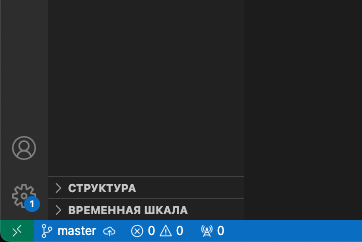
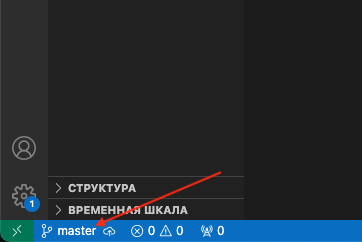
description with pictures

diff --git a/README.md b/README.md
@@ -233,8 +233,32 @@ $ git clone [тут наш адрес]
 
 ![2](./.pictures/2.png)
 
-3. 
+3. Откроем папку в VSC
 
+![2](./.pictures/4.png)
+![2](./.pictures/5.png)
+
+В углу можем видеть, что теперь Git отлеживает изменения в в ветви master
+
+![2](./.pictures/6.png)
+
+4. Убедимся, что в VSC мы вошли в аккаунт через GitHub
+
+![2](./.pictures/3.png)
+
+5. Создадим файл
+
+![2](./.pictures/7.png)
+
+6. Во вкладке Git увидим, что файл отклеживается. Запишем все изменения.
+   
+![2](./.pictures/8.png)
+![2](./.pictures/9.png)
+
+7. Теперь осталось отправить изменения и выбрать тип репозитория.
+   
+![2](./.pictures/10.png)
+![2](./.pictures/11.png)
 ## <a id="title3">Подготовка к Python</a>
 
 Тут разберем основные команды для работы в терминале линукса. Их не так много, как может показаться, всего 30, но каждая важна для перемещения по директориям, созданию и чтению файлов и т.д.
